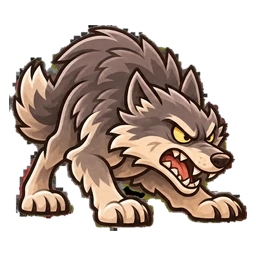
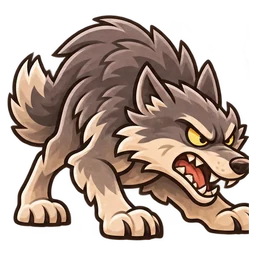
Lupo e Falco tornano alle icone pulite in attesa delle nuove
Claude-Session: https://claude.ai/code/session_01HfaWZ85fbzKyRqfxnb746i

diff --git a/sw.js b/sw.js
@@ -2,7 +2,7 @@
 // Pagina e script: prima la rete (così gli aggiornamenti arrivano subito), poi la copia salvata.
 // Immagini: prima la copia salvata. Quando cambi immagini già esistenti, aumenta VERSION.
 // tools/test-pwa.js controlla che tutte le icone siano in PRECACHE.
-const VERSION='ff-v6';
+const VERSION='ff-v7';
 const PRECACHE=[
  "./",
  "index.html",

diff --git a/CLAUDE.md b/CLAUDE.md
@@ -9,3 +9,5 @@
   Ogni figura si prende intera come forma collegata, anche se esce dalla sua cella.
 - Dopo ogni ritaglio controllare a occhio che nessuna figura abbia un bordo dritto (segno di taglio).
 - Le nuove immagini vanno anche in `PRECACHE` di `sw.js`; se si sostituisce un'immagine esistente, aumentare `VERSION`.
+- Sfondo nero: non scontornare per soglia di luminosità (i contorni scuri si fondono con lo sfondo e restano aloni). Chiedere l'immagine su bianco o trasparente.
+- Topi: l'icona resta quella con più topi, ma le animazioni in campo sono di un solo topo (ogni topo è un'unità).
